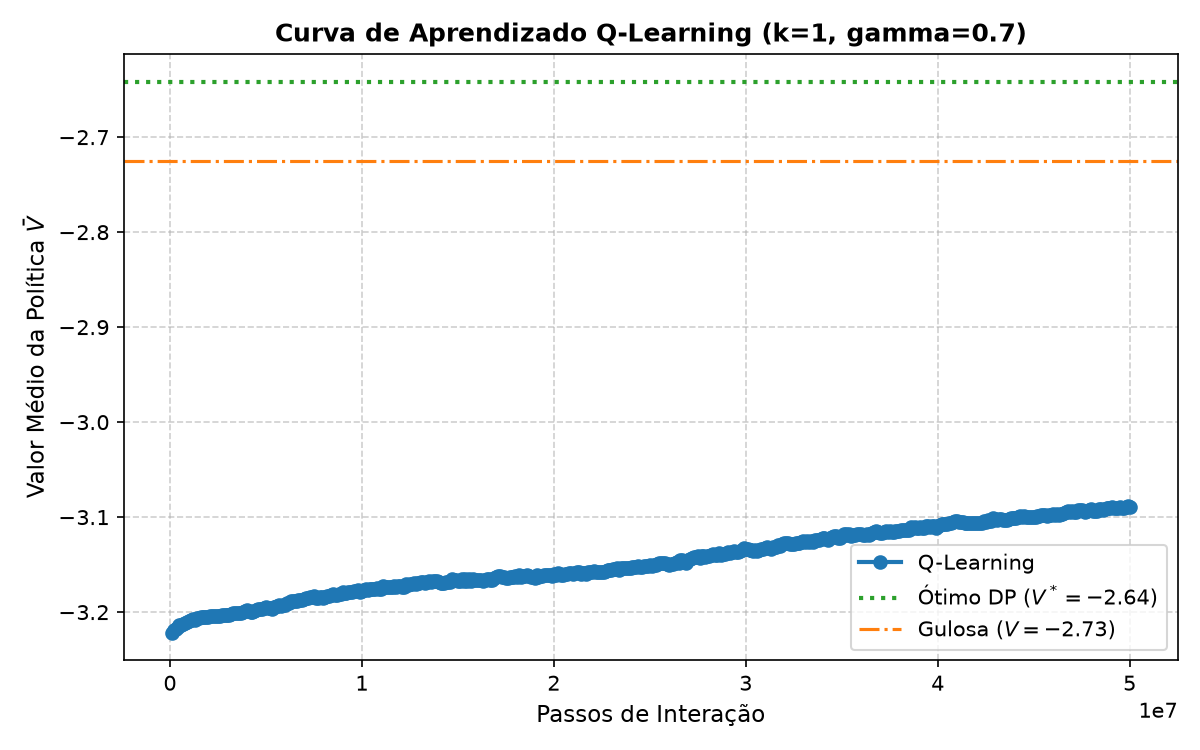
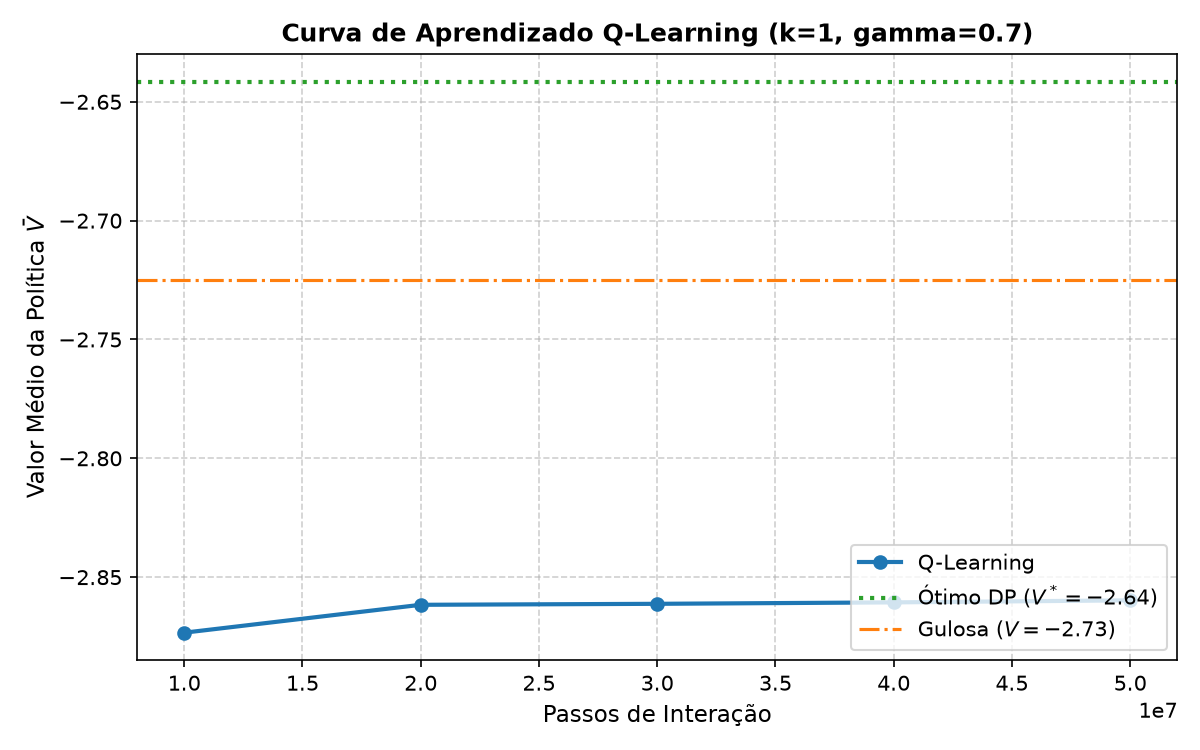
update item3

diff --git a/item_3.py b/item_3.py
@@ -13,9 +13,6 @@ from cleaning_robot.animate import animate
 
 
 def run_experiment_item3():
-    print("=" * 75)
-    print("EXPERIMENTO 3: Q-LEARNING (MODEL-FREE CONTROL)")
-    print("=" * 75)
 
     # Definição dos dois cenários escolhidos
     scenarios = [
